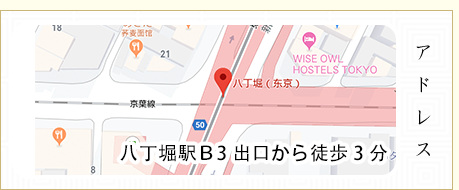
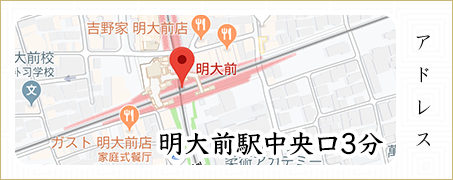
dsd
dd

diff --git a/access.html b/access.html
@@ -2,9 +2,9 @@
 <html lang="en">
 <head>
   <meta charset="utf-8">
-  <title>ROLAリラクセーション　マッサージ　メンズエステ　リンパマッサージ【ROLA】</title>
+  <title>ROLA明大前駅中央口3分リラクセーション　マッサージ　メンズエステ　リンパマッサージ【ROLA】</title>
 <meta name="keywords" content="ROLA,エステ，ROLAアジア，アロママッサージ,精力回復,ストレス解消,アロマオイル,ボディケア,フットケア" />
-<meta name="description" content="八丁堀駅駅本格アロママッサージ，ROLAでございます，オイルマッサージで精力を増強します，仕事のストレスを解消いただきます。" />
+<meta name="description" content="明大前駅中央口3分本格アロママッサージ，ROLAでございます，オイルマッサージで精力を増強します，仕事のストレスを解消いただきます。" />
   <meta name="viewport" content="width=device-width, initial-scale=1, minimum-scale=1, maximum-scale=1">
   <link rel="stylesheet" href="swiper.min.css">
   <link rel="stylesheet" href="css/nav_top.css">
@@ -29,7 +29,7 @@
   </style>
 <body>
     <div class="nav">
-        <div class="telephone"><a href="tel://09091546417">Tel:090-9154-6417</a></div>
+        <div class="telephone"><a href="tel://08073218870">Tel:080-7321-8870</a></div>
         <div class="navimg" id="nav"></div>
     </div>
     <div class="navLong">
@@ -40,7 +40,7 @@
       <a href="room.html"><div class="navLong1">店内風景</div></a>
       <a href="access.html"><div class="navLong1">アクセス</div></a>
       <a href="recruit.html"><div class="navLong1">リクルート</div></a>
-      <div class="navLong2"><a href="tel://09091546417">Tel:090-9154-6417</a></div>
+      <div class="navLong2"><a href="tel://08073218870">Tel:080-7321-s8870</a></div>
     </div>
     <!-- <div class="navWidth"></div> -->
     <div class="top">
@@ -60,10 +60,9 @@
 <div class="accesstitle"></div>
     </div>
     <div class=" access">
-      <iframe src="https://www.google.com/maps/embed?pb=!1m18!1m12!1m3!1d954.8962494821192!2d139.77649296840744!3d35.6745959276547!2m3!1f0!2f0!3f0!3m2!1i1024!2i768!4f13.1!3m3!1m2!1s0x6018895e7e295c3b%3A0xb246a5ed9843db8c!2z5YWr5LiB5aCA77yI5Lic5Lqs77yJ!5e0!3m2!1szh-CN!2sjp!4v1571640632496!5m2!1szh-CN!2sjp" width="600" height="450" frameborder="0" style="border:0;" allowfullscreen=""></iframe>
-        <div class="address">八丁堀駅Ｂ4出口</div>
-        <div class="station">Ｂ4出口から徒歩３分</div>
-        <div class="teleph"><a href="tel://09091546417">Tel:090-9154-6417</a></div>
+      <iframe src="https://www.google.com/maps/embed?pb=!1m18!1m12!1m3!1d3241.35121436432!2d139.64836005069543!3d35.66835313818862!2m3!1f0!2f0!3f0!3m2!1i1024!2i768!4f13.1!3m3!1m2!1s0x6018f3078a4992df%3A0xc09fbf5d8c170111!2z5piO5aSn5YmN!5e0!3m2!1szh-CN!2sjp!4v1575221199170!5m2!1szh-CN!2sjp" width="600" height="450" frameborder="0" style="border:0;" allowfullscreen=""></iframe>
+        <div class="address">明大前駅中央口3分</div>
+        <div class="teleph"><a href="tel://08073218870">Tel:080-7321-8870</a></div>
     </div>
     <div class="end">
         <div class="logo"></div>

diff --git a/index.html b/index.html
@@ -2,9 +2,9 @@
 <html lang="en">
 <head>
 <meta charset="utf-8">
-<title>ROLAリラクセーション　マッサージ　メンズエステ　リンパマッサージ【ROLA】</title>
+<title>ROLA 明大前駅リラクセーション　マッサージ　メンズエステ　リンパマッサージ【ROLA】</title>
 <meta name="keywords" content="ROLA,エステ，ROLAアジア，アロママッサージ,精力回復,ストレス解消,アロマオイル,ボディケア,フットケア" />
-<meta name="description" content="八丁堀駅駅本格アロママッサージ，ROLAでございます，オイルマッサージで精力を増強します，仕事のストレスを解消いただきます。" />
+<meta name="description" content=" 明大前駅本格アロママッサージ，ROLAでございます，オイルマッサージで精力を増強します，仕事のストレスを解消いただきます。" />
   <meta name="viewport" content="width=device-width, initial-scale=1, minimum-scale=1, maximum-scale=1">
   <link rel="stylesheet" href="swiper.min.css">
   <link rel="stylesheet" href="css/nav_top.css">
@@ -12,7 +12,7 @@
   </head>
 <body>
     <div class="nav">
-        <div class="telephone" ><a href="tel://09091546417">Tel:090-9154-6417</a></div>
+        <div class="telephone" ><a href="tel://08073218870">Tel:080-7321-8870</a></div>
         <div class="navimg" id="nav"></div>
     </div>
     <div class="navLong">
@@ -23,7 +23,7 @@
         <a href="room.html"><div class="navLong1">店内風景</div></a>
         <a href="access.html"><div class="navLong1">アクセス</div></a>
         <a href="recruit.html"><div class="navLong1">リクルート</div></a>
-        <div class="navLong2"><a href="tel://09091546417">Tel:090-9154-6417</a></div>
+        <div class="navLong2"><a href="tel://08073218870">Tel:080-7321-8870</a></div>
     </div>
     <!-- <div class="navWidth"></div> -->
     <div class="top">
@@ -62,7 +62,7 @@
     <div class="map" id="map"></div>
     <div class="end">
             <div class="logo"></div>
-            <div class="tel"><a href="tel://09091546417"></a></div>
+            <div class="tel"><a href="tel://08073218870"></a></div>
             <div class="button"></div>
     </div>
     <div class="footing"></div>
@@ -71,9 +71,6 @@
 <script src="js/index.js"></script>
 <script src="js/girl.js"></script>
 <script>
-var swiper = new Swiper('.swiper-container', {
-    autoplay: 2000,
-    });
 divHeight(2.2,"focus");
 divHeight(1.2,"girlPhoto1");
 divHeight(4.0,"event");

diff --git a/room.html b/room.html
@@ -2,9 +2,9 @@
 <html lang="en">
 <head>
   <meta charset="utf-8">
-  <title>ROLAリラクセーション　マッサージ　メンズエステ　リンパマッサージ【ROLA】</title>
+  <title>ROLA明大前駅リラクセーション　マッサージ　メンズエステ　リンパマッサージ【ROLA】</title>
   <meta name="keywords" content="ROLA,エステ，ROLAアジア，アロママッサージ,精力回復,ストレス解消,アロマオイル,ボディケア,フットケア" />
-  <meta name="description" content="八丁堀駅駅本格アロママッサージ，ROLAでございます，オイルマッサージで精力を増強します，仕事のストレスを解消いただきます。" />
+  <meta name="description" content="明大前駅本格アロママッサージ，ROLAでございます，オイルマッサージで精力を増強します，仕事のストレスを解消いただきます。" />
   <meta name="viewport" content="width=device-width, initial-scale=1, minimum-scale=1, maximum-scale=1">
   <link rel="stylesheet" href="swiper.min.css">
   <link rel="stylesheet" href="css/nav_top.css">
@@ -42,7 +42,7 @@
 </style>
 <body>
     <div class="nav">
-        <div class="telephone"><a href="tel://09091546417">Tel:090-9154-6417</a></div>
+        <div class="telephone"><a href="tel://08073218870">Tel:080-7321-8870</a></div>
         <div class="navimg" id="nav"></div>
     </div>
     <div class="navLong">
@@ -53,7 +53,7 @@
         <a href="room.html"><div class="navLong1">店内風景</div></a>
         <a href="access.html"><div class="navLong1">アクセス</div></a>
         <a href="recruit.html"><div class="navLong1">リクルート</div></a>
-        <div class="navLong2"><a href="tel://09091546417">Tel:090-9154-6417</a></div>
+        <div class="navLong2"><a href="tel://08073218870">Tel:080-7321-8870</a></div>
     </div>
     <!-- <div class="navWidth"></div> -->
     <div class="top">

diff --git a/system.html b/system.html
@@ -2,9 +2,9 @@
 <html lang="en">
 <head>
   <meta charset="utf-8">
-  <title>ROLAリラクセーション　マッサージ　メンズエステ　リンパマッサージ【ROLA】</title>
+  <title>ROLA 明大前駅リラクセーション　マッサージ　メンズエステ　リンパマッサージ【ROLA】</title>
 <meta name="keywords" content="ROLA,エステ，ROLAアジア，アロママッサージ,精力回復,ストレス解消,アロマオイル,ボディケア,フットケア" />
-<meta name="description" content="八丁堀駅駅本格アロママッサージ，ROLAでございます，オイルマッサージで精力を増強します，仕事のストレスを解消いただきます。" />
+<meta name="description" content=" 明大前駅本格アロママッサージ，ROLAでございます，オイルマッサージで精力を増強します，仕事のストレスを解消いただきます。" />
   <meta name="viewport" content="width=device-width, initial-scale=1, minimum-scale=1, maximum-scale=1">
   <link rel="stylesheet" href="swiper.min.css">
   <link rel="stylesheet" href="css/nav_top.css">
@@ -20,7 +20,7 @@
   </style>
 <body>
     <div class="nav">
-        <div class="telephone"><a href="tel://09091546417">Tel:090-9154-6417</a></div>
+        <div class="telephone"><a href="tel://08073218870">Tel:080-7321-8870</a></div>
         <div class="navimg" id="nav"></div>
     </div>
     <div class="navLong">
@@ -31,7 +31,7 @@
         <a href="room.html"><div class="navLong1">店内風景</div></a>
         <a href="access.html"><div class="navLong1">アクセス</div></a>
         <a href="recruit.html"><div class="navLong1">リクルート</div></a>
-        <div class="navLong2"><a href="tel://09091546417">Tel:090-9154-6417</a></div>
+        <div class="navLong2"><a href="tel://08073218870">Tel:080-7321-8870</a></div>
     </div>
     <!-- <div class="navWidth"></div> -->
     <div class="top">

diff --git a/girl.html b/girl.html
@@ -2,9 +2,9 @@
 <html lang="en">
 <head>
   <meta charset="utf-8">
-  <title>ROLAリラクセーション　マッサージ　メンズエステ　リンパマッサージ【ROLA】</title>
+  <title>ROLA明大前駅リラクセーション　マッサージ　メンズエステ　リンパマッサージ【ROLA】</title>
 <meta name="keywords" content="ROLA,エステ，ROLAアジア，アロママッサージ,精力回復,ストレス解消,アロマオイル,ボディケア,フットケア" />
-<meta name="description" content="八丁堀駅駅本格アロママッサージ，ROLAでございます，オイルマッサージで精力を増強します，仕事のストレスを解消いただきます。" />
+<meta name="description" content=" 明大前駅本格アロママッサージ，ROLAでございます，オイルマッサージで精力を増強します，仕事のストレスを解消いただきます。" />
   <meta name="viewport" content="width=device-width, initial-scale=1, minimum-scale=1, maximum-scale=1">
   <link rel="stylesheet" href="swiper.min.css">
   <link rel="stylesheet" href="css/nav_top.css">
@@ -13,7 +13,7 @@
   </head>
 <body>
     <div class="nav">
-        <div class="telephone"><a href="tel://09091546417">Tel:090-9154-6417</a></div>
+        <div class="telephone"><a href="tel://08073218870">Tel:080-7321-8870</a></div>
         <div class="navimg" id="nav"></div>
     </div>
     <div class="navLong">
@@ -24,7 +24,7 @@
         <a href="room.html"><div class="navLong1">店内風景</div></a>
         <a href="access.html"><div class="navLong1">アクセス</div></a>
         <a href="recruit.html"><div class="navLong1">リクルート</div></a>
-        <div class="navLong2"><a href="tel://09091546417">Tel:090-9154-6417</a></div>
+        <div class="navLong2"><a href="tel://08073218870">Tel:080-7321-8870</a></div>
     </div>
     <!-- <div class="navWidth"></div> -->
     <div class="top">

diff --git a/recruit.html b/recruit.html
@@ -2,9 +2,9 @@
 <html lang="en">
 <head>
   <meta charset="utf-8">
-  <title>ROLAリラクセーション　マッサージ　メンズエステ　リンパマッサージ【ROLA】</title>
+  <title>ROLA明大前駅リラクセーション　マッサージ　メンズエステ　リンパマッサージ【ROLA】</title>
 <meta name="keywords" content="ROLA,エステ，ROLAアジア，アロママッサージ,精力回復,ストレス解消,アロマオイル,ボディケア,フットケア" />
-<meta name="description" content="八丁堀駅駅本格アロママッサージ，ROLAでございます，オイルマッサージで精力を増強します，仕事のストレスを解消いただきます。" />
+<meta name="description" content="明大前駅本格アロママッサージ，ROLAでございます，オイルマッサージで精力を増強します，仕事のストレスを解消いただきます。" />
   <meta name="viewport" content="width=device-width, initial-scale=1, minimum-scale=1, maximum-scale=1">
   <link rel="stylesheet" href="swiper.min.css">
   <link rel="stylesheet" href="css/nav_top.css">
@@ -53,7 +53,7 @@
   </style>
 <body>
     <div class="nav">
-        <div class="telephone"><a href="tel://09091546417">Tel:090-9154-6417</a></div>
+        <div class="telephone"><a href="tel://08073218870">Tel:080-7321-8870</a></div>
         <div class="navimg" id="nav"></div>
     </div>
     <div class="navLong">
@@ -64,7 +64,7 @@
         <a href="room.html"><div class="navLong1">店内風景</div></a>
         <a href="access.html"><div class="navLong1">アクセス</div></a>
         <a href="recruit.html"><div class="navLong1">リクルート</div></a>
-        <div class="navLong2"><a href="tel://09091546417">Tel:090-9154-6417</a></div>
+        <div class="navLong2"><a href="tel://08073218870">Tel:080-7321-8870</a></div>
     </div>
     <!-- <div class="navWidth"></div> -->
     <div class="top">

diff --git a/js/girl.js b/js/girl.js
@@ -19,6 +19,9 @@ fetch(myApi)
    var k = i+i+1
    girlPhoto.innerHTML = '<div class="girlPhotoBigBox"><div class="girlPhotoBox"><img src="https://test-cms-alpha.herokuapp.com'+json[j].avatars[0]+'"> <div class="girlPhotoName"> ' + json[j].name+ '</div></div></div><div class="girlPhotoBigBox"><div class="girlPhotoBox"><img src="https://test-cms-alpha.herokuapp.com'+json[k].avatars[0]+'"><div class="girlPhotoName"> ' + json[k].name+ '</div></div></div>';
    apiList.appendChild(girlPhoto);
+   var swiper = new Swiper('.swiper-container', {
+    autoplay: 2000,
+    });
   }
 })
 .catch(function(error) {
